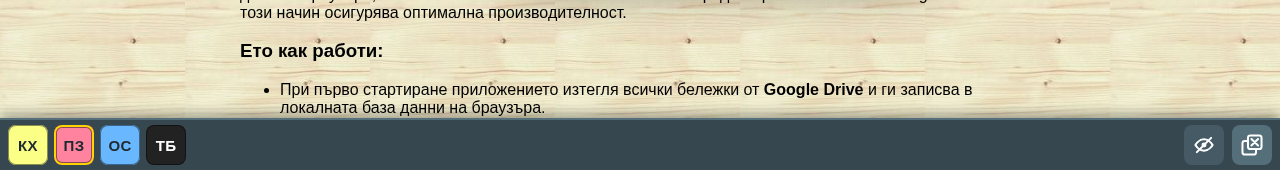
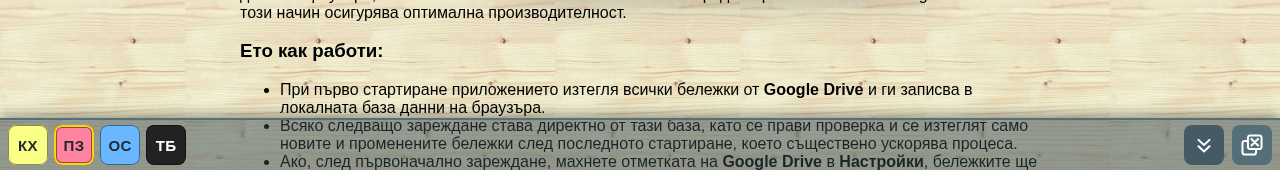
Лентата: 50% прозрачен фон, иконата на асистента без двойно преместване, стрелки вместо око, кеш b2.74

Changed region(s): [[0.0, 0.7059, 1.0, 1.0]]

diff --git a/uni/main.js b/uni/main.js
@@ -10913,8 +10913,38 @@ function applyExpandedModalSize(modalContentBox, isExpanded) {
     modalContentBox.style.maxHeight = 'none';
 }
 
+// Разпънатата бележка закрива долния ръб (там е лентата ѝ с инструменти), затова иконата на асистента
+// отстъпва 60px нагоре. Отстъпът се дава САМО когато иконата още стои на долния ръб: щом лентата на
+// бележките вече я е вдигнала (тя вдига точно същите 60px) или собственикът я е преместил другаде,
+// второ отместване само я качва излишно - двойно преместване (b2.74).
+const EXPANDED_FAB_LIFT_CLASS = 'modal-note-expanded-fab-lift';
+
+function kbFabStandsOnBottomEdge(fab) {
+    if (!fab) return false;
+    const top = (fab.style.getPropertyValue('top') || '').trim();
+    const bottom = (fab.style.getPropertyValue('bottom') || '').trim();
+    // Преместен бутон минава на top (bottom: auto), значи вече не е на долния ръб. Празна инлайн
+    // стойност значи, че бутонът ползва основното си място от stylesheet-а - то е долният ръб.
+    if (top && top !== 'auto') return false;
+    return bottom !== 'auto';
+}
+
+function expandedFabLiftNeeded() {
+    if (!document.body || !document.body.classList.contains('modal-note-expanded')) return false;
+    // Лентата на бележките вече е вдигнала иконата - отстъпът е направен, втори не трябва.
+    if (document.body.classList.contains('open-notes-bar-visible')) return false;
+    return kbFabStandsOnBottomEdge(document.getElementById('kb-fab'));
+}
+
+/** Класът, който дава отстъпа на иконата при разпъната бележка - пресмята се наново при всяка промяна. */
+function syncExpandedFabLift() {
+    if (!document.body) return;
+    document.body.classList.toggle(EXPANDED_FAB_LIFT_CLASS, expandedFabLiftNeeded());
+}
+
 function setExpandedModalFloatingControls(isExpanded) {
     document.body.classList.toggle('modal-note-expanded', isExpanded);
+    syncExpandedFabLift();
 }
 
 function updateModalExpandButton(isExpanded) {
@@ -11356,6 +11386,9 @@ function syncOpenNotesBarLift(visible) {
         setOpenNotesBarHeightVar(0);
     }
     applyOpenNotesBarLift();
+    // Състоянието на лентата решава и дали иконата на асистента има нужда от отстъп при разпъната
+    // бележка - иначе двете отмествания се събират.
+    syncExpandedFabLift();
 }
 
 /**
@@ -13703,16 +13736,16 @@ const productTourIconSvg = `<svg width="24" height="24" viewBox="0 0 24 24" aria
 function productTourLabel() {
     return (localStorage.getItem('language') === 'bg') ? 'Пусни демо-тура' : 'Play the demo tour';
 }
-// „Скрий всички бележки" (b2.70): око със зачеркване - прозорците изчезват от екрана, но остават
-// отворени. Двете икони са една рисунка с разменено състояние, за да си личи, че бутонът сменя ролята си.
+// „Скрий всички бележки" (b2.70, иконата е стрелки от b2.74): прозорците изчезват от екрана, но
+// остават отворени. Собственикът поиска стрелки вместо око - двойна стрелка надолу за „скрий" и
+// двойна нагоре за „покажи", за да се чете посоката на действие, а не око.
 const hideAllNotesIconSvg = `<svg width="24" height="24" viewBox="0 0 24 24" aria-hidden="true">
-    <path d="M2.6 12s3.6-6.2 9.4-6.2S21.4 12 21.4 12s-3.6 6.2-9.4 6.2S2.6 12 2.6 12z" fill="none" stroke="currentColor" stroke-width="2.2" stroke-linejoin="round" />
-    <circle cx="12" cy="12" r="2.7" fill="currentColor" stroke="none" />
-    <path d="M4.2 19.8L19.8 4.2" fill="none" stroke="currentColor" stroke-width="2.2" stroke-linecap="round" />
+    <path d="M6 6.4l6 5.6 6-5.6" fill="none" stroke="currentColor" stroke-width="2.2" stroke-linecap="round" stroke-linejoin="round" />
+    <path d="M6 13.4l6 5.6 6-5.6" fill="none" stroke="currentColor" stroke-width="2.2" stroke-linecap="round" stroke-linejoin="round" />
 </svg>`;
 const showAllNotesIconSvg = `<svg width="24" height="24" viewBox="0 0 24 24" aria-hidden="true">
-    <path d="M2.6 12s3.6-6.2 9.4-6.2S21.4 12 21.4 12s-3.6 6.2-9.4 6.2S2.6 12 2.6 12z" fill="none" stroke="currentColor" stroke-width="2.2" stroke-linejoin="round" />
-    <circle cx="12" cy="12" r="2.7" fill="currentColor" stroke="none" />
+    <path d="M6 17.6l6-5.6 6 5.6" fill="none" stroke="currentColor" stroke-width="2.2" stroke-linecap="round" stroke-linejoin="round" />
+    <path d="M6 10.6l6-5.6 6 5.6" fill="none" stroke="currentColor" stroke-width="2.2" stroke-linecap="round" stroke-linejoin="round" />
 </svg>`;
 // Close all notes: two overlapping windows of the SAME size, the x in the upper (front) one (CX, 2026-10-07).
 // The front window is drawn last and filled with the button's own colour, so it hides the part of the back

diff --git a/uni/style.css b/uni/style.css
@@ -84,8 +84,11 @@ body:has(#login-page:not([hidden])) #kb-fab {
     display: none !important;
 }
 
-/* Keep the Assistant clear of an expanded note's bottom toolbar. */
-body.modal-note-expanded #kb-fab {
+/* Keep the Assistant clear of an expanded note's bottom toolbar — but only while nothing else has
+   already lifted it. The open-notes bar lifts the same button by exactly the same 60px, so adding this
+   on top moved it twice as high (b2.74). The class is set by syncExpandedFabLift, which checks that the
+   button still stands on the bottom edge. */
+body.modal-note-expanded-fab-lift #kb-fab {
     translate: 0 -60px;
 }
 
@@ -4813,7 +4816,9 @@ body.selection-locked .note.active-selection-note .note-content {
     padding: 6px 8px;
     align-items: center;
     gap: 8px;
-    background: #37474F;
+    /* Полупрозрачен (b2.74, собственикът): лентата е 50% прозрачна, за да не закрива плътно
+       съдържанието под себе си. Плочките и бутоните в нея остават плътни. */
+    background: rgba(55, 71, 79, 0.5);
     border-top: 2px solid #546E7A;
     box-shadow: 0 -4px 12px rgba(0, 0, 0, 0.35);
     /* Слоят на прозорците не приема кликове; лентата приема своите. */

diff --git a/uni/sw.js b/uni/sw.js
@@ -1,4 +1,4 @@
-const CACHE_NAME = 'cx-notes-b2.73';
+const CACHE_NAME = 'cx-notes-b2.74';
 const OFFLINE_PAGE = 'index.html';
 // Демо режимът (index.html?demo=1) не минава през кеша: данните му живеят само в IndexedDB
 // (NotesDB-demo) и нищо не се записва тук. Fetch handler-ът пропуска cross-origin заявки,
